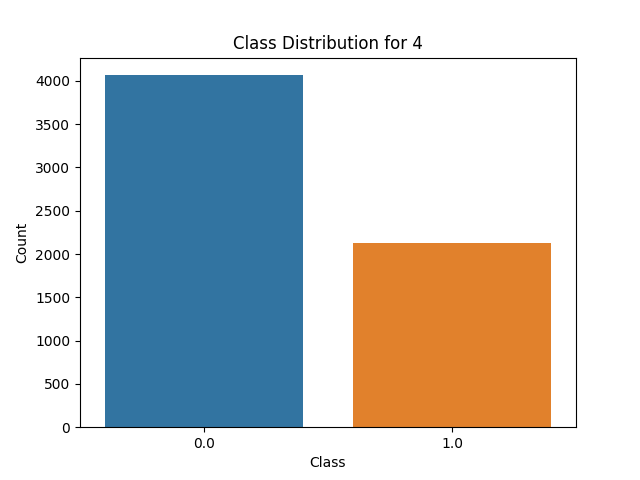
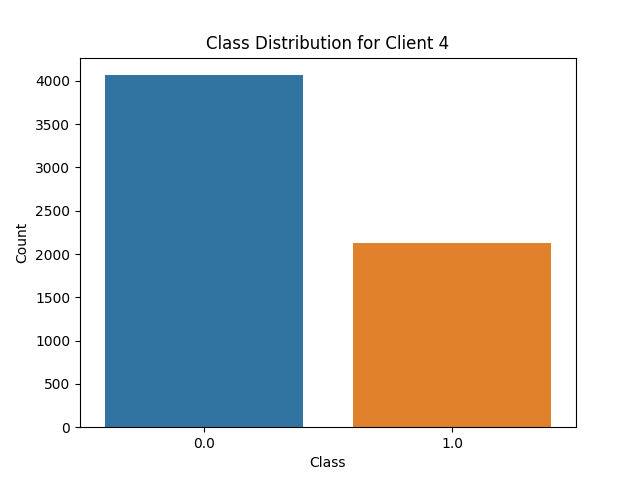
fixed the dirichlet.

Changed region(s): [[0.3125, 0.0625, 0.7188, 0.125]]

diff --git a/sklearn_example/client.py b/sklearn_example/client.py
@@ -73,30 +73,35 @@ if __name__ == "__main__":
     with open(f"client_unique_data_lengts.txt", "w") as f:
         for client_idx, length in unique_counts:
             f.write(f"{client_idx+1}: {length}\n")    
-        
+    
     X_train = train_data[client_id]["data"]
     y_train = train_data[client_id]["target"]
-    # I double the same dataset, since some of them doesn't has enough data.
-    #X_train = pd.concat([X_train, X_train], ignore_index=True)
-    #y_train = pd.concat([y_train, y_train], ignore_index=True)
     
-    '''
-    prev_index = 0
-    # Split the data into folds
-    for train_index in range(len(X_train) // server.num_rounds, len(X_train), len(X_train) // server.num_rounds):
-        X_fold = X_train[prev_index:train_index]
-        y_fold = y_train[prev_index:train_index]
-        data_folds.append((X_fold, y_fold))
-        prev_index = train_index
-    
-    
-    ROUND_INDEX = 0
-    '''
-    
-    curr_round = 0
     print(f"Client Data: {X_train.shape}")
     X_test = test_data["data"]
     y_test = test_data["target"]
+    
+    if server.plot_client_dist:
+        # Create a new figure and axis objects
+        fig, axes = plt.subplots(2, 5, figsize=(25, 8))
+
+        # Flatten the axes array to easily access each subplot
+        axes = axes.flatten()
+
+        # Plot the figures
+        for i in range(10):
+            plt.subplot(2, 5, i+1)
+            sns.countplot(x=y_train)
+            plt.xlabel('Class')
+            plt.ylabel('Count')
+            plt.title(f'Class Distribution for Client {i+1}')
+
+        # Adjust spacing between subplots
+        plt.tight_layout()
+
+        # Save the combined figure
+        figure_name = 'combined_figures_presentation.png'
+        plt.savefig(figure_name)
 
     # Create LogisticRegression Model
     model = LogisticRegression(
@@ -108,21 +113,6 @@ if __name__ == "__main__":
 
     # Setting initial parameters, akin to model.compile for keras models
     utils.set_initial_params(model, n_classes=2, n_features=21)
-    '''
-    print(f"THESE ARE THE VALUE COUNTS OF THE TRAINING DATA {y_train.value_counts()}")
-    '''
-    
-    sns.countplot(x=y_train)
-
-    # Set labels and title
-    plt.xlabel('Class')
-    plt.ylabel('Count')
-    plt.title(f'Class Distribution for {client_id}')
-
-    # Save the figure
-    figure_name = f'{client_id}_class_distribution.png'
-    plt.savefig(figure_name)
-    
     
     # Define Flower client
     class LogisticClient(fl.client.NumPyClient):
@@ -139,18 +129,12 @@ if __name__ == "__main__":
             with warnings.catch_warnings():
                 warnings.simplefilter("ignore")
                 # Get the training data for the current round
-                #round_train_x, round_train_y = data_folds[ROUND_INDEX][0], data_folds[ROUND_INDEX][1]
                 model.fit(X_train, y_train)
-                #self.ROUND_INDEX += 1
-                #print(f"Client {client_id} finished training round {self.curr_round}")
-                #print(f"Type of the client id {type(client_id)}")
-                #if curr_round == 1 and client_id == 6:
                 self.curr_round += 1
-                #print("!!!!!!!!!!!!!Printing feature importances!!!!!!!!!!!!!")
                 if client_id == 6 and self.curr_round == server.num_rounds - 1:
                     feature_importances = model.coef_[0]
                     # Print feature importances
-                    print(f"Feature importances for client {client_id} for round {self.curr_round}:")
+                    #print(f"Feature importances for client {client_id} for round {self.curr_round}:")
                     for feature, importance in zip(X_train.columns, feature_importances):
                         print(f"\n {feature}: {importance}")
                         

diff --git a/sklearn_example/dirichlet_dist.py b/sklearn_example/dirichlet_dist.py
@@ -56,26 +56,25 @@ class DirichletDist:
         train_df, test_df = train_test_split(
             data, test_size=self.test_split, random_state=self.random_state
         )
-        #print(dirichlet_sample) 2x10
+        # print(len(dirichlet_sample)) 2x10
+        with open("dirichlet_sample.txt", "w") as f:
+            f.write(str(dirichlet_sample))
 
         client_dfs = {}
         for client in range(self.num_clients):
             client_df = pd.DataFrame()
 
             for class_idx in range(self.num_classes):
-                #print(self.num_classes)
-                #client 1 
-                # class_idx = 0
-                #print 
-                #print(dirichlet_sample)
                 subset = train_df.loc[(train_df[self.class_col] == class_idx)]
                 # print(len(subset))
                 lower_bound = math.floor(
                     len(subset) * sum(dirichlet_sample[class_idx][0:client])
                 )
                 # print(len(subset))
+                # Sometimes the difference between the number at index client and client+1 is so small
+                # that the lower bound is equal to the upper bound
                 upper_bound = math.floor(
-                    len(subset) * sum(dirichlet_sample[class_idx][0 : client + 1])
+                    len(subset) * sum(dirichlet_sample[class_idx][0:client + 1])
                 )
                 subset = subset[lower_bound:upper_bound]
                 # print(len(subset))

diff --git a/sklearn_example/server.py b/sklearn_example/server.py
@@ -14,13 +14,13 @@ warnings.filterwarnings("ignore")
 
 test_split = 0.2
 density = 0.5
-epochs = 1
+epochs = 3
 num_rounds = 100
 data_path = (
     "../data/diabetes_data/diabetes_binary_5050split_health_indicators_BRFSS2015.csv"
 )
 class_col = "Diabetes_binary"
-
+plot_client_dist = True
 
 def fit_round(server_round: int) -> Dict:
     """Send round number to client."""
@@ -59,8 +59,7 @@ def get_evaluate_fn(
         
         if server_round == 100: 
             feature_importances = model.coef_[0]
-            # Print feature importances
-            print(f"Feature importances for central server for round {server_round}:")
+            # Print feature importances for the central model.
             for feature, importance in zip(X_test.columns, feature_importances):
                 print(f"\n {feature}: {importance}")
                 
